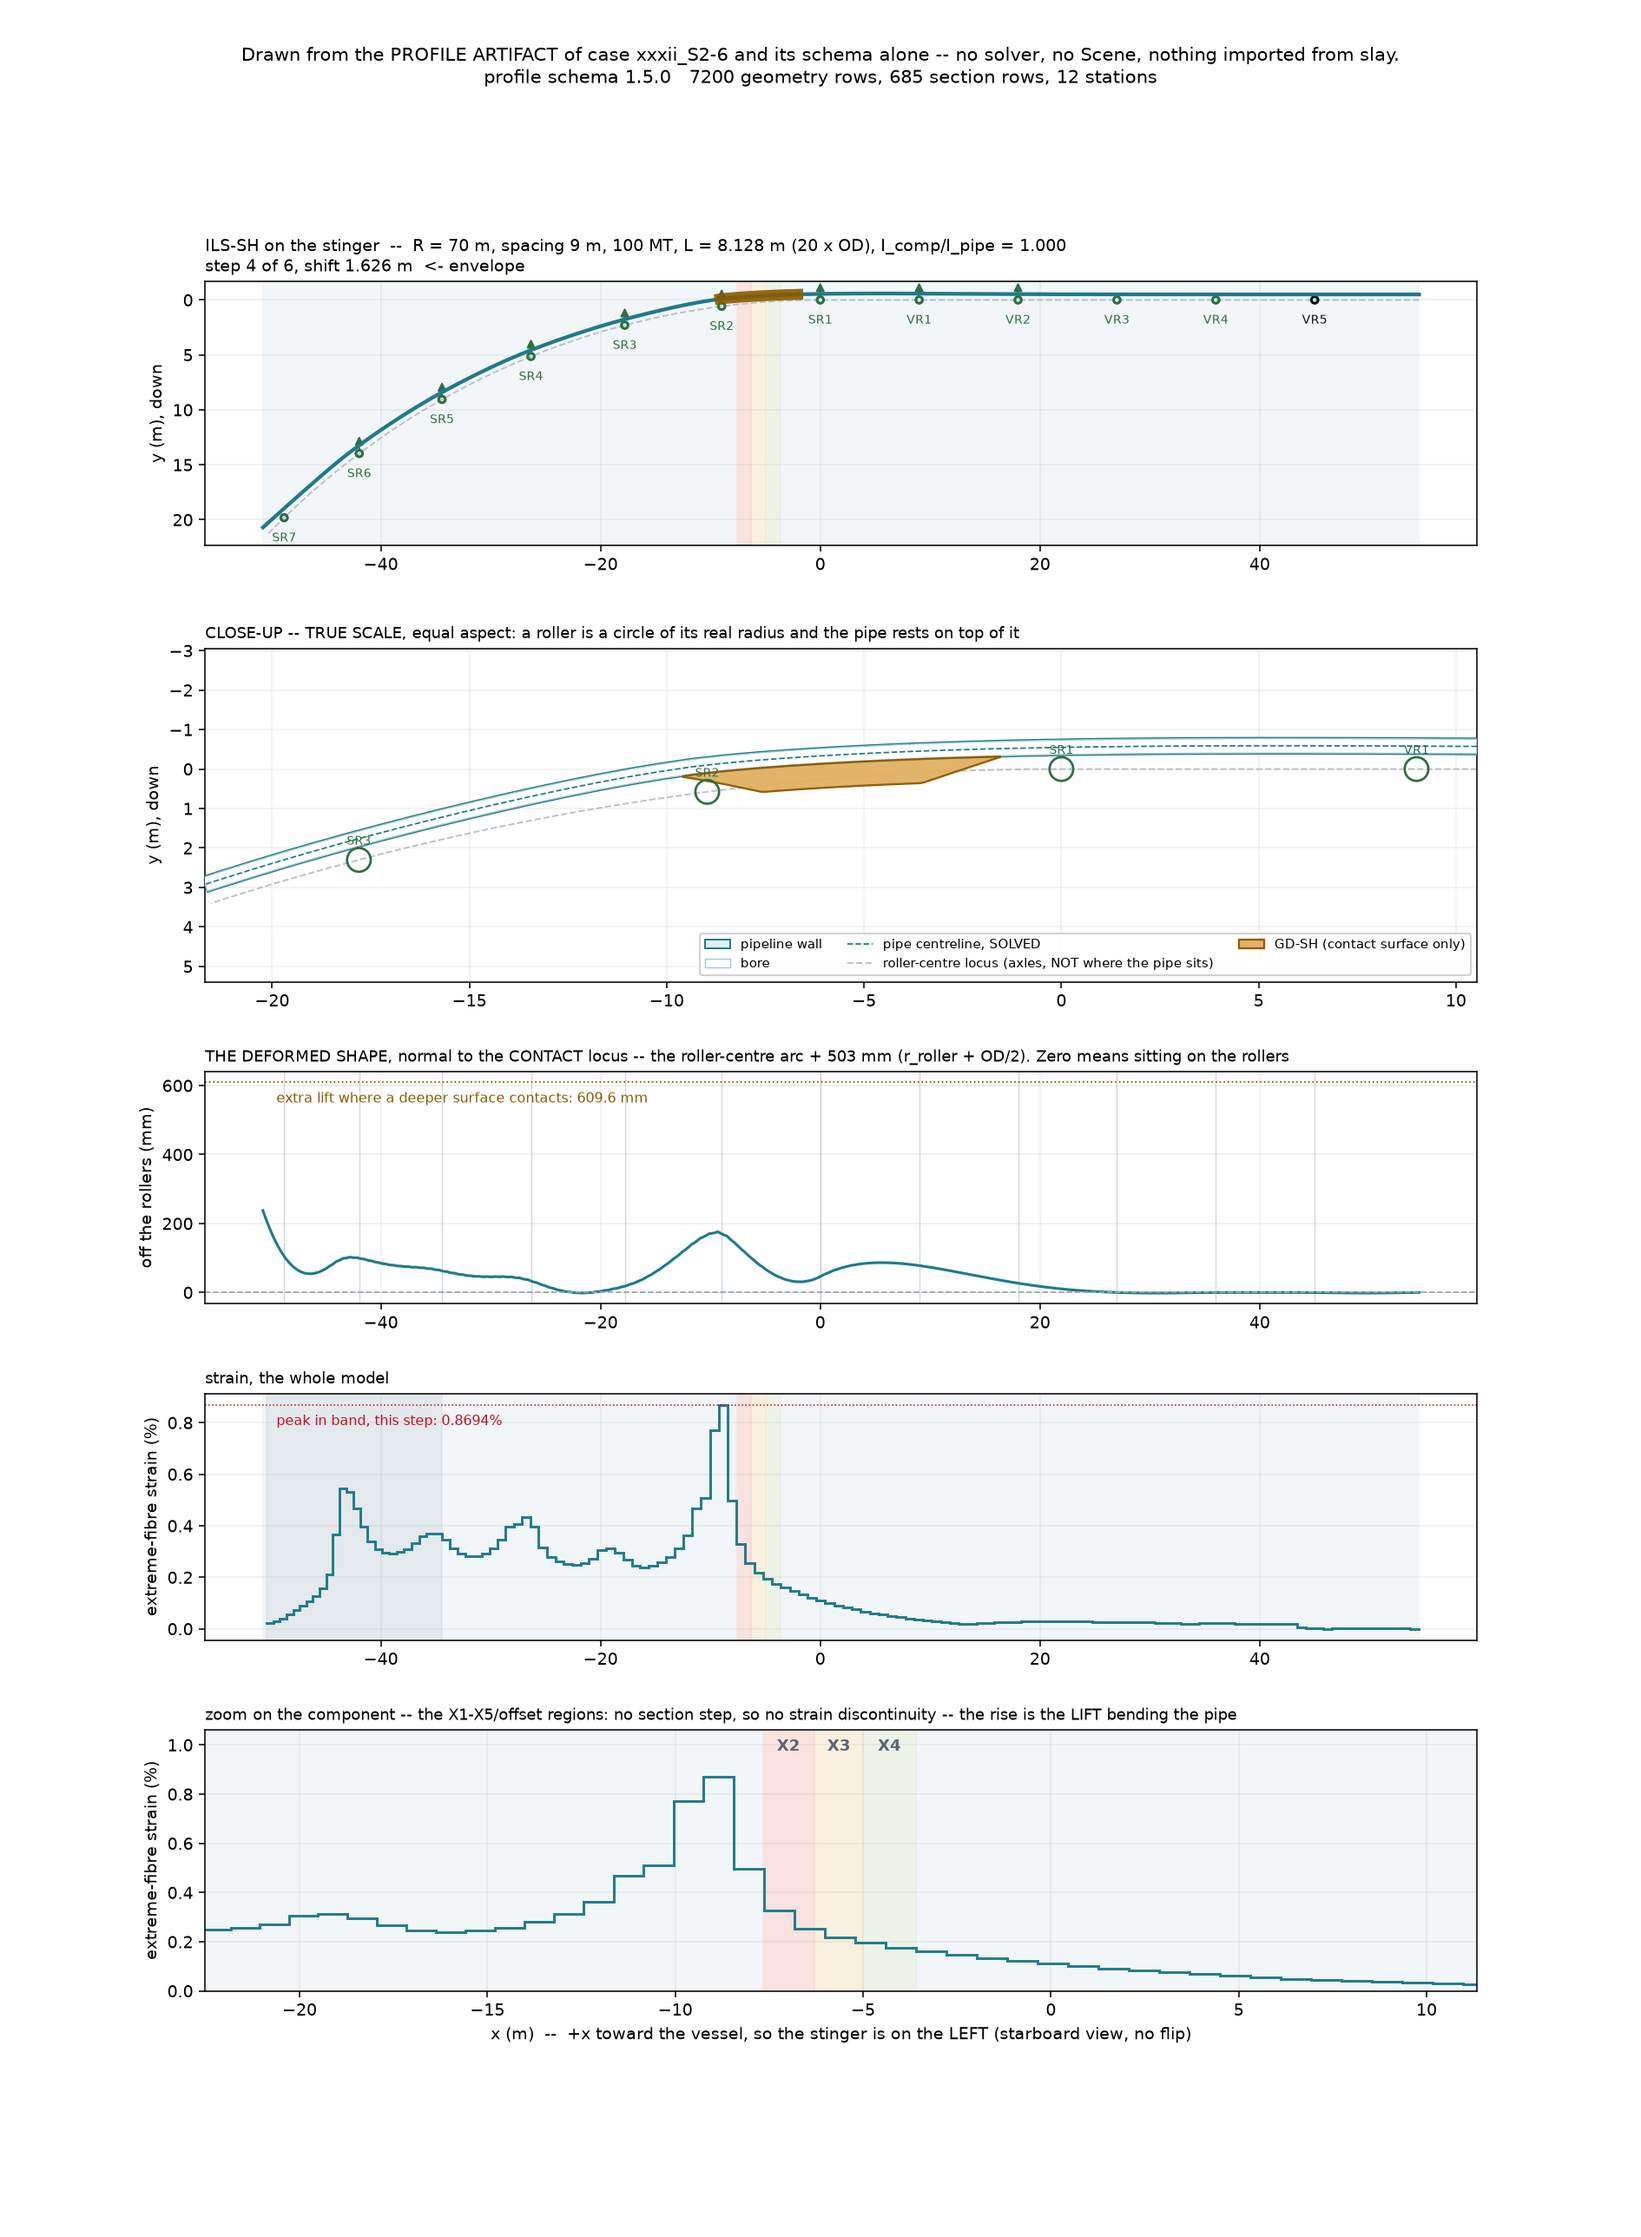
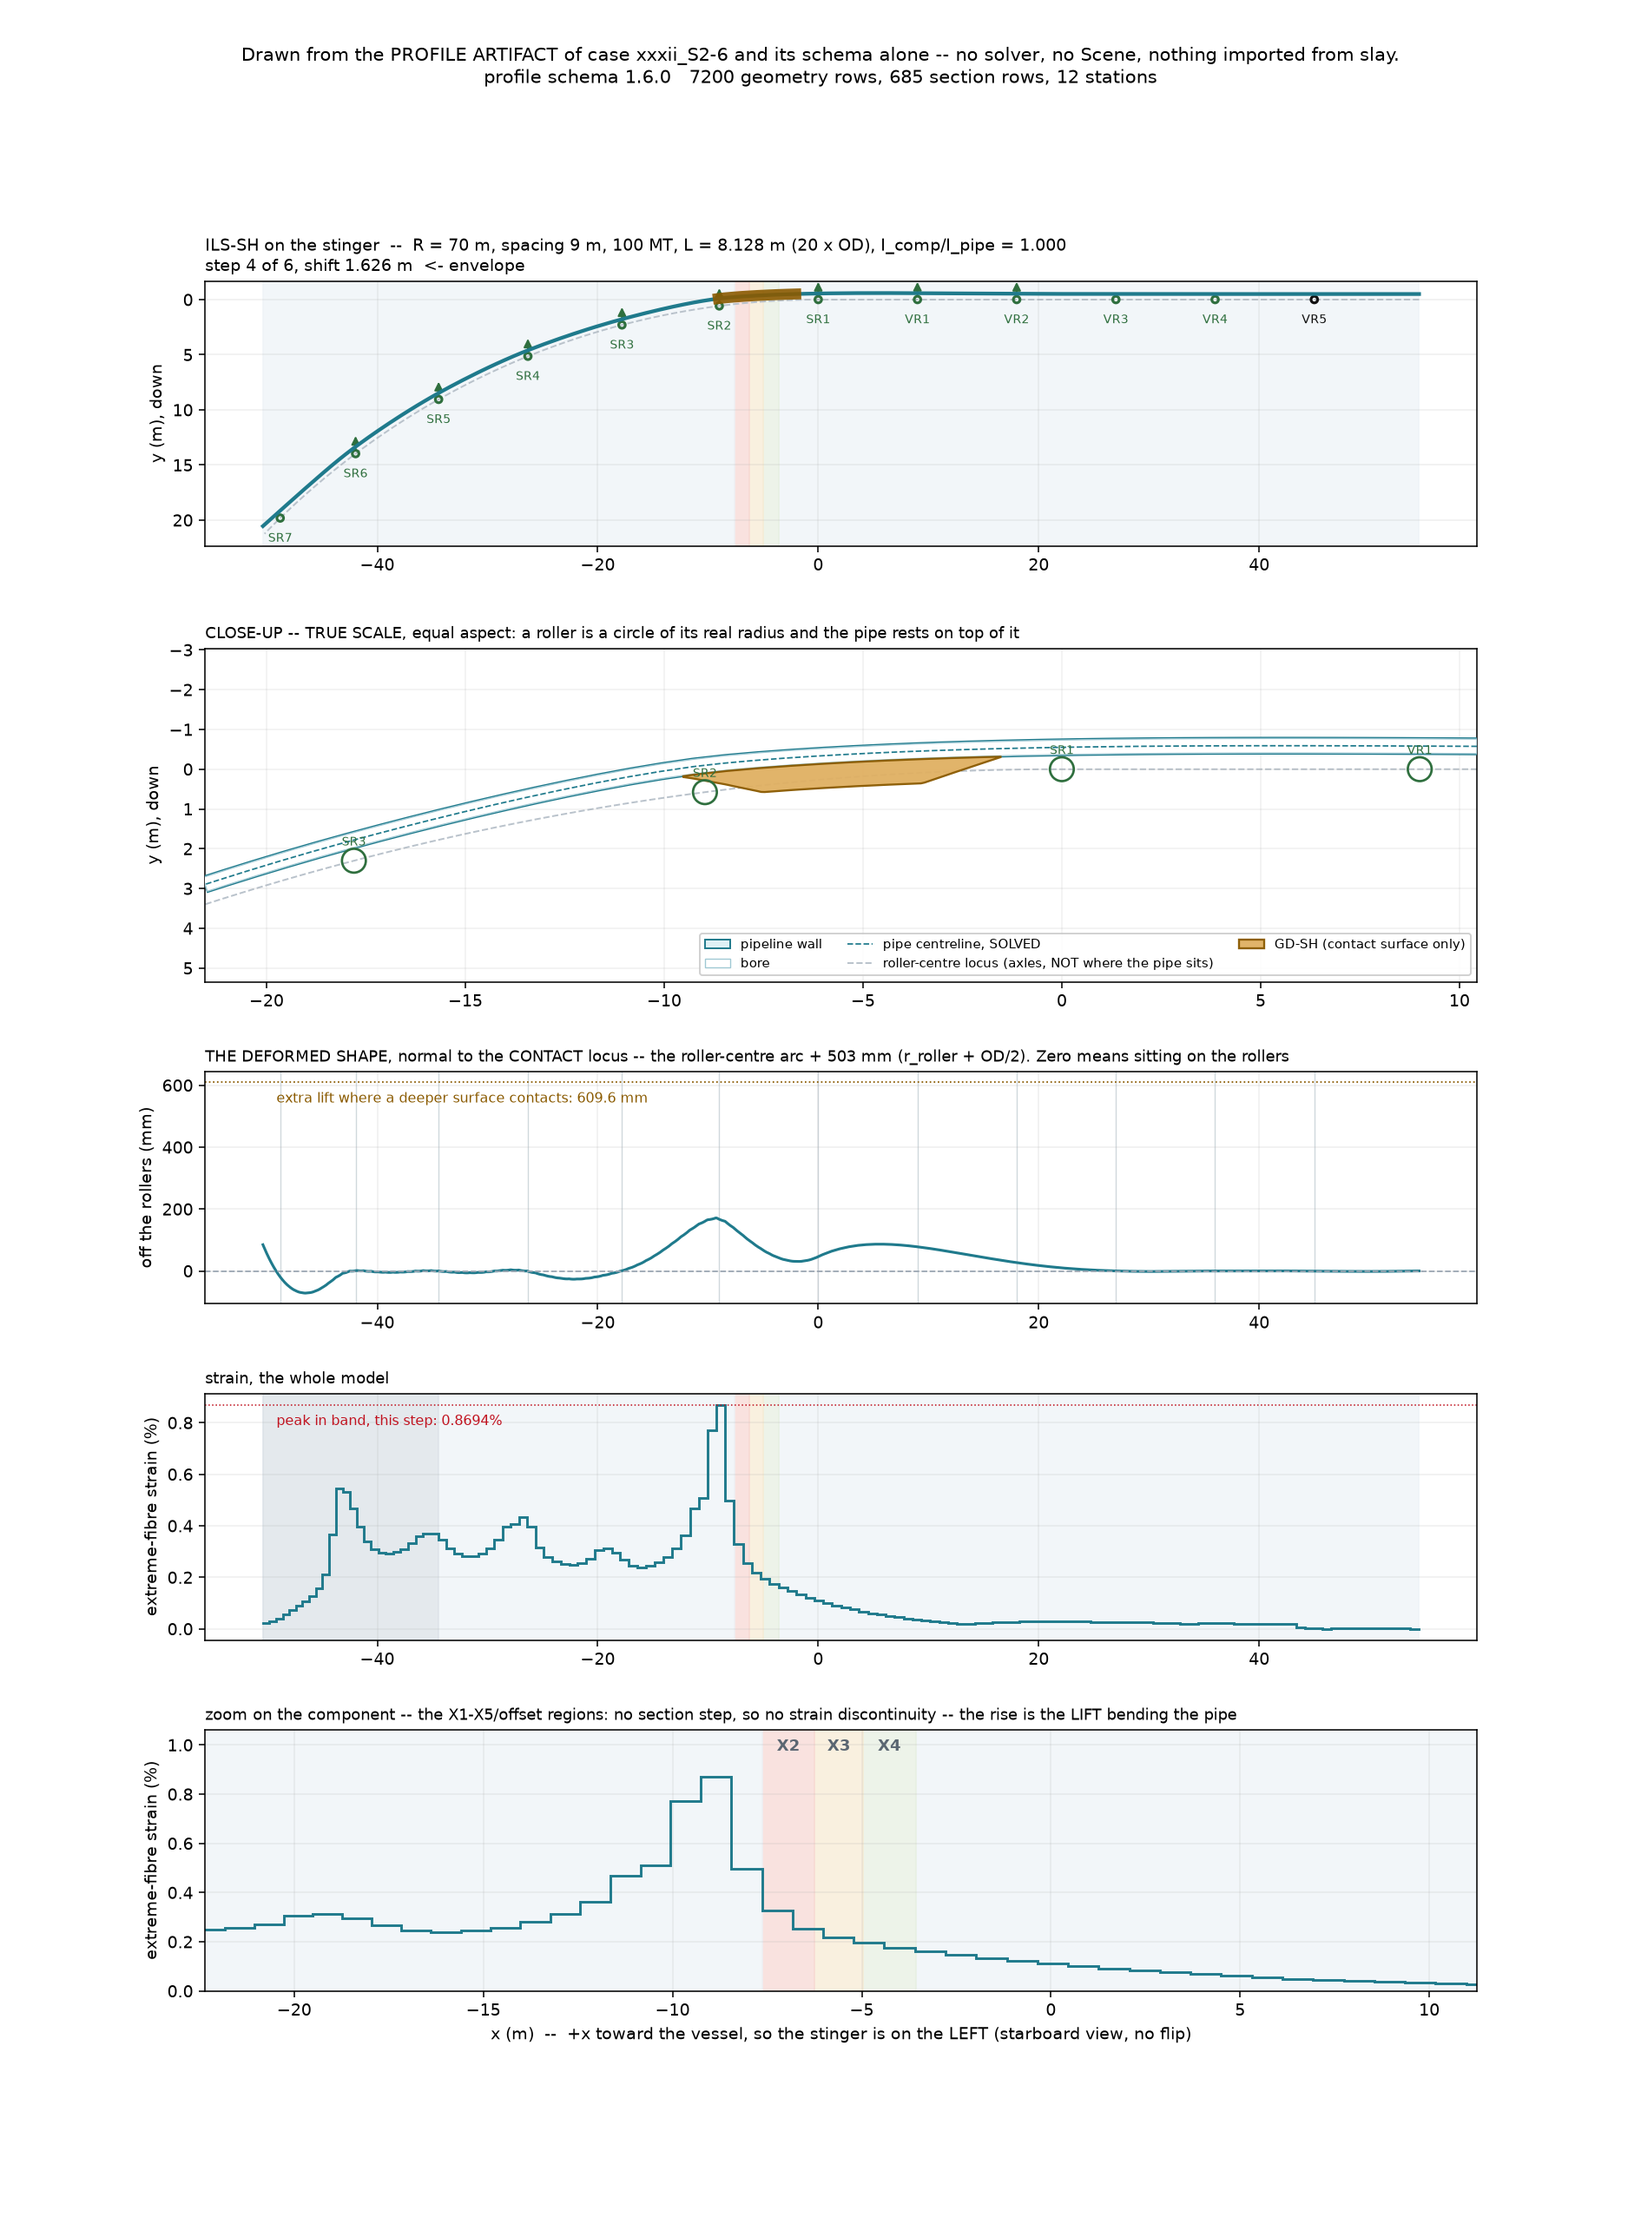
L104: the contact lift is VERTICAL, not along the local normal
Asked whether the lift-off at every stinger roller in the S2-6 step-4
figure is correct. It is not. The solver and the figure disagreed, and the
figure was wrong.

WHAT THE TWO SAID. At S2-6 shift 0 the geometry table reported the pipe
held off the rollers in a sequence growing down the stinger -- SR2 3.9 mm,
SR3 16.3, SR4 37.3, SR5 65.0, SR6 103.6, SR7 125.9 -- on a column whose
schema says "0 means sitting on the rollers". At those same positions every
one of SR2..SR7 was ACTIVE with a constraint residual of 0.00 mm. The pipe
was on the rollers the whole time.

THE CAUSE. L099 got the magnitude right and the DIRECTION wrong. The
reported centreline was lifted by `contact_offset * n`, along the local
normal. `arc_target(R_eff, theta)` is the normal offset from a straight
reference at arc length `R_eff * theta`, so by the projection identity the
solved shape is a circle of radius R_eff TANGENT TO THE DECK, centre
(0, R_eff). The roller-top locus is a circle of the same radius CONCENTRIC
WITH THE AXLE ARC, centre (0, R). Those differ by (0, R - R_eff) at every
angle and by nothing else, so the recovery is a rigid VERTICAL translation.
Along the local normal it instead carries the pipe PAST the top by
contact_offset * (1 - cos theta) -- 0 at SR1, 142 mm at SR7 on a 70 m
stinger -- and that overshoot is what off_arc reported as lift-off.

AFTER, at the same stations and every converged position:

              SR2    SR3    SR4    SR5    SR6     SR7
[…]

diff --git a/rebuild/tests/test_contact_datum.py b/rebuild/tests/test_contact_datum.py
@@ -22,6 +22,26 @@ assumed.
 AND ONLY A PICTURE COULD HAVE FOUND IT. No numeric test in this repo
 compares an elevation against anything; every one of them is a strain, a
 moment or a ratio, and all of those were right.
+
+L099 GOT THE DIRECTION WRONG, and the tests below it did not notice for a
+day. The lift was applied as `contact_offset * n`, along the LOCAL normal.
+On the deck n = (0, -1) and that is the vertical, so every check that
+looked at the deck passed. On the arc the normal swings round with theta
+and the lift carries the pipe PAST the roller top by
+`contact_offset * (1 - cos theta)` -- 0 at SR1, 142 mm at SR7 on a 70 m
+stinger -- so `off_arc` reported the pipe lifting off every stinger roller
+in turn, 17 mm at SR3 rising to 126 mm at SR7,
+while the solver's own residual at those same slots was 0.00 mm.
+
+THE RIGHT LIFT IS VERTICAL, and it is exact for the same reason the
+magnitude is. `arc_target(R_eff, theta)` is the normal offset from a
+straight reference at arc length `R_eff * theta`, so the solved shape is a
+circle of radius R_eff TANGENT TO THE DECK, centre (0, R_eff). The
+roller-top locus is a circle of the same radius concentric with the AXLE
+arc, centre (0, R). Those differ by (0, R - R_eff) at every angle and by
+nothing else. So the tests here are written at a station ON THE ARC, where
+the two candidate lifts disagree, and not only on the deck, where they
+cannot.
 """
 from __future__ import annotations
 
@@ -89,3 +109,106 @@ def test_the_contact_targets_still_carry_the_radius_through_curvature():
     for n in ('SR2', 'SR4', 'SR6'):
         assert bo[n].dn / cl[n].dn == pytest.approx(85.5032 / 85.0, rel=1e-9)
         assert bo[n].R_eff == pytest.approx(85.5032)
+
+
+# ---------------------------------------------------------------------------
+# the DIRECTION of the lift -- tested where the two candidates disagree
+# ---------------------------------------------------------------------------
+
+def _solved_circle(theta, R, offset):
+    """Where the SOLVE puts the centreline: radius R+offset, tangent to the
+    deck. This is `arc_target(R_eff, theta)` read as the geometry it is."""
+    import math
+    Reff = R + offset
+    return (-Reff * math.sin(theta), Reff * (1.0 - math.cos(theta)))
+
+
+def _roller_top(theta, R, offset):
+    """Where the pipe PHYSICALLY sits: concentric with the axle arc."""
+    import math
+    Reff = R + offset
+    return (-Reff * math.sin(theta), R - Reff * math.cos(theta))
+
+
+@pytest.mark.parametrize('theta', [0.0, 0.129, 0.386, 0.771])
+def test_the_two_circles_differ_by_a_VERTICAL_translation(theta):
+    """The whole justification, as arithmetic rather than as prose.
+
+    If this held only approximately, lifting the reported pipe would bend
+    it, and the strain would no longer be the solve's.
+    """
+    R = 70.0
+    sx, sy = _solved_circle(theta, R, OFFSET)
+    tx, ty = _roller_top(theta, R, OFFSET)
+    assert tx - sx == pytest.approx(0.0, abs=1e-12)
+    assert ty - sy == pytest.approx(-OFFSET, abs=1e-12)
+
+
+@pytest.mark.parametrize('theta', [0.129, 0.386, 0.771])
+def test_a_lift_along_the_LOCAL_NORMAL_overshoots_the_roller_top(theta):
+    """The defect, stated as the number it is.
+
+    Along the normal the old lift carries the pipe PAST the roller top by
+    `contact_offset * (1 - cos theta)` -- 142 mm at SR7 on a 70 m stinger --
+    which is why `off_arc` read positive, as lift-off, and the figure drew
+    the pipe hovering above every stinger roller.
+
+    This is the test that was missing: every earlier check sat at theta = 0,
+    where `contact_offset * n` and the vertical are the same vector.
+    """
+    import math
+    R = 70.0
+    sx, sy = _solved_circle(theta, R, OFFSET)
+    tx, ty = _roller_top(theta, R, OFFSET)
+    nx, ny = -math.sin(theta), -math.cos(theta)       # LayPath.normal
+    lx, ly = sx + OFFSET * nx, sy + OFFSET * ny       # the OLD lift
+    over = (lx - tx) * nx + (ly - ty) * ny
+    assert over == pytest.approx(OFFSET * (1.0 - math.cos(theta)), abs=1e-9)
+    assert over > 1e-3, 'the two lifts must differ off the deck'
+
+
+def test_at_theta_zero_the_two_lifts_agree():
+    """Which is exactly why the deck-only checks passed."""
+    import math
+    R = 70.0
+    sx, sy = _solved_circle(0.0, R, OFFSET)
+    nx, ny = -math.sin(0.0), -math.cos(0.0)
+    assert (sx + OFFSET * nx, sy + OFFSET * ny) == pytest.approx(
+        (sx, sy - OFFSET), abs=1e-12)
+
+
+def test_the_writer_lifts_vertically_not_along_the_normal():
+    """Read off the EMITTED ROWS, so the contract is checked, not the source.
+
+    With a zero displacement field the solved centreline is the straight
+    deck reference, and the reported centreline must be that reference
+    lifted VERTICALLY by the contact offset -- y = -offset at every sample,
+    including the samples whose station is far up the arc, where a lift
+    along the local normal would instead give y = -offset * cos(theta) and
+    x = -(s) - offset * sin(theta).
+    """
+    import numpy as np
+    sc = build_scene(R=70.0, spacing=9.0,
+                     margin_stinger=ct.material_margin(build_scene(
+                         R=70.0, spacing=9.0)))
+    m = build_model(sc)
+    ms, _mdl, _ix = _mesh(m, sc)
+    U = np.zeros(3 * (max(n.index for n in m.nodes) + 1))
+    rows = rprof.geometry_rows(sc, m, ms, U, None, 0.0, OD, 0.0, 0, True,
+                               {}, n=60)
+    assert rows, 'no samples emitted'
+    for r in rows:
+        assert r['y'] == pytest.approx(-OFFSET, abs=1e-9)
+        assert r['x'] == pytest.approx(-r['s_material'], abs=1e-9)
+    # and the samples really do reach up the arc, or the test proves nothing
+    assert max(abs(float(r['normal_x'])) for r in rows) > 0.5
+
+
+def _mesh(model, scene):
+    """The kernel mesh for a model, so `dof` numbering matches the writer."""
+    from slay.physics.problem import build_problem
+    from slay.solve.kernel import mesh_of_problem
+    from slay.data.materials import material
+    pr = build_problem(model, scene, shift=0.0, tension=0.0,
+                       material=material('j2'))
+    return mesh_of_problem(pr)

diff --git a/rebuild/slay/report/profile.py b/rebuild/slay/report/profile.py
@@ -120,6 +120,31 @@ def geometry_rows(scene, model, ms, U, ils, s_centre, OD, shift, step,
     # here: curvature already enters through `R_eff`, and what was missing
     # was only the datum the result is reported against.
     #
+    # AND IT IS A VERTICAL TRANSLATION, NOT A LIFT ALONG THE LOCAL NORMAL.
+    # This is the half of L099 that was got wrong, and it put the pipe back
+    # through the rollers everywhere but the deck.
+    #
+    # `arc_target(R_eff, theta)` is the normal offset from a STRAIGHT
+    # reference at arc length `R_eff * theta`, so by the projection identity
+    # `arc_target_by_projection` asserts, the solved shape is a circle of
+    # radius R_eff TANGENT TO THE DECK -- centre (0, R_eff). The roller-top
+    # locus is a different circle: concentric with the axle arc, centre
+    # (0, R), radius R_eff. Those two differ by (0, R - R_eff) at every
+    # angle and by nothing else -- a rigid VERTICAL translation of exactly
+    # `contact_offset`, which is why the curvature, and so the strain, is
+    # right (L099's claim, and it holds).
+    #
+    # Lifting by `contact_offset * n` instead is 0.503 m along the LOCAL
+    # normal. On the deck n = (0, -1) and the two agree, which is why this
+    # looked fixed. On the arc the normal swings round with theta, so the
+    # lift carries the pipe PAST the roller top by
+    # `contact_offset * (1 - cos theta)` -- 0 at SR1, 142 mm at SR7 on a
+    # 70 m stinger. `off_arc` then reported the pipe lifting off every
+    # stinger roller in sequence, 17 mm at SR3 rising to 126 mm at SR7,
+    # while the solver's own constraint residual at those same slots was
+    # 0.00 mm. The figure disagreed with the solve, and the figure was
+    # wrong.
+    #
     # IT STOPS BEING A TRANSLATION IF THE RADII DIFFER, so that is checked
     # rather than assumed.
     radii = {st.radius for st in scene.stations
@@ -145,10 +170,11 @@ def geometry_rows(scene, model, ms, U, ils, s_centre, OD, shift, step,
         s_sta = float(s_mat) + shift
         ax, ay = scene.path.position(s_sta)
         nx, ny = scene.path.normal(s_sta)
-        # The solved centreline, lifted onto the roller tops. `normal` points
-        # from the roller toward the pipe, so this is a + and not a -.
-        px = float(xs[k]) + contact_offset * nx
-        py = float(ys[k]) + contact_offset * ny
+        # The solved centreline, lifted onto the roller tops. The lift is
+        # VERTICAL and +y is down, so it is a minus: see the derivation
+        # above. Not `contact_offset * n`, which only coincides on the deck.
+        px = float(xs[k])
+        py = float(ys[k]) - contact_offset
         x_local = s_centre - float(s_mat)
         sec = ils.assembly.section_at(x_local) if ils is not None else None
         con = ils.assembly.contact_at(x_local) if ils is not None else None

diff --git a/rebuild/slay/report/profile_schema.py b/rebuild/slay/report/profile_schema.py
@@ -61,7 +61,14 @@ import re
 
 from slay.report.schema import IDX, M, NM, NONE, Field
 
-PROFILE_SCHEMA_VERSION = '1.5.0'
+PROFILE_SCHEMA_VERSION = '1.6.0'
+# 1.6.0  `x` and `y` carry the contact lift as a VERTICAL translation, not
+#        a lift along the local normal. Same magnitude, and identical on the
+#        deck, but on the arc the normal swings with theta and the old form
+#        fell short by contact_offset * (1 - cos theta) -- 142 mm at SR7 on
+#        a 70 m stinger. `off_arc` therefore read 17 to 126 mm of lift-off
+#        at stinger rollers whose solver constraint residual was 0.00 mm.
+#        Values move; the contract does not.
 # 1.5.0  `passage_complete`, `sweep_total` and `sweep_ran` in the case
 #        context: whether the component actually traversed the station, and
 #        how far it got if not. A truncated passage produced an artifact
@@ -216,7 +223,14 @@ GEOMETRY = _identity('geometry') + CONTEXT + POSITION + [
           'u_s)`. Every value here is SOLVED, never placed on the arc '
           'formula', per='sample'),
     Field('y', 'float', M, 'length', 'value',
-          'WORLD y of the solved centreline, +y DOWN', per='sample'),
+          'WORLD y of the solved centreline, +y DOWN, carrying the contact '
+          'lift as `u_y - contact_offset`. The lift is VERTICAL: the solved '
+          'shape is a circle of radius R_eff tangent to the DECK and the '
+          'roller-top locus is one of the same radius concentric with the '
+          'AXLE arc, and those differ by a constant vertical vector. Lifting '
+          'along the local normal instead agrees only at theta = 0 and falls '
+          'short by contact_offset * (1 - cos theta) up the stinger',
+          per='sample'),
     Field('arc_x', 'float', M, 'length', 'value',
           'WORLD x of the ROLLER-CENTRE locus at this s_station -- the arc '
           'LayPath.R is measured to, which is where the roller AXLES are and '
